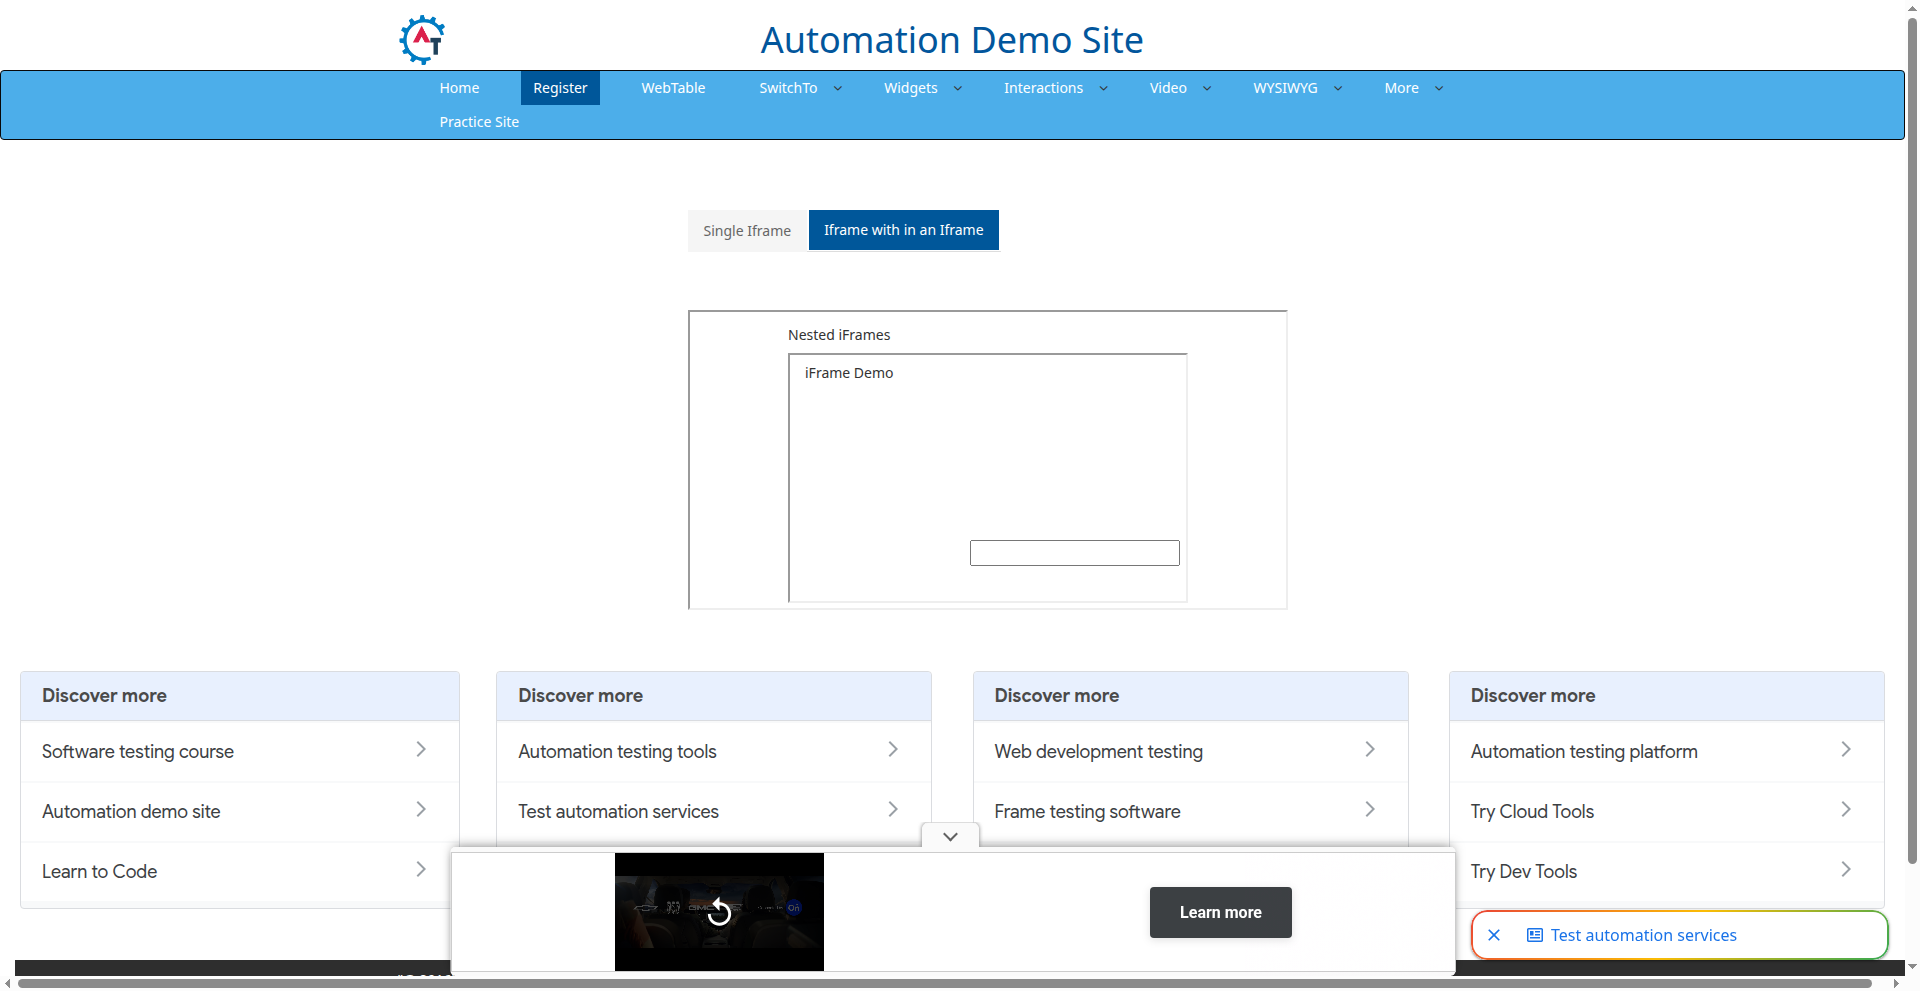
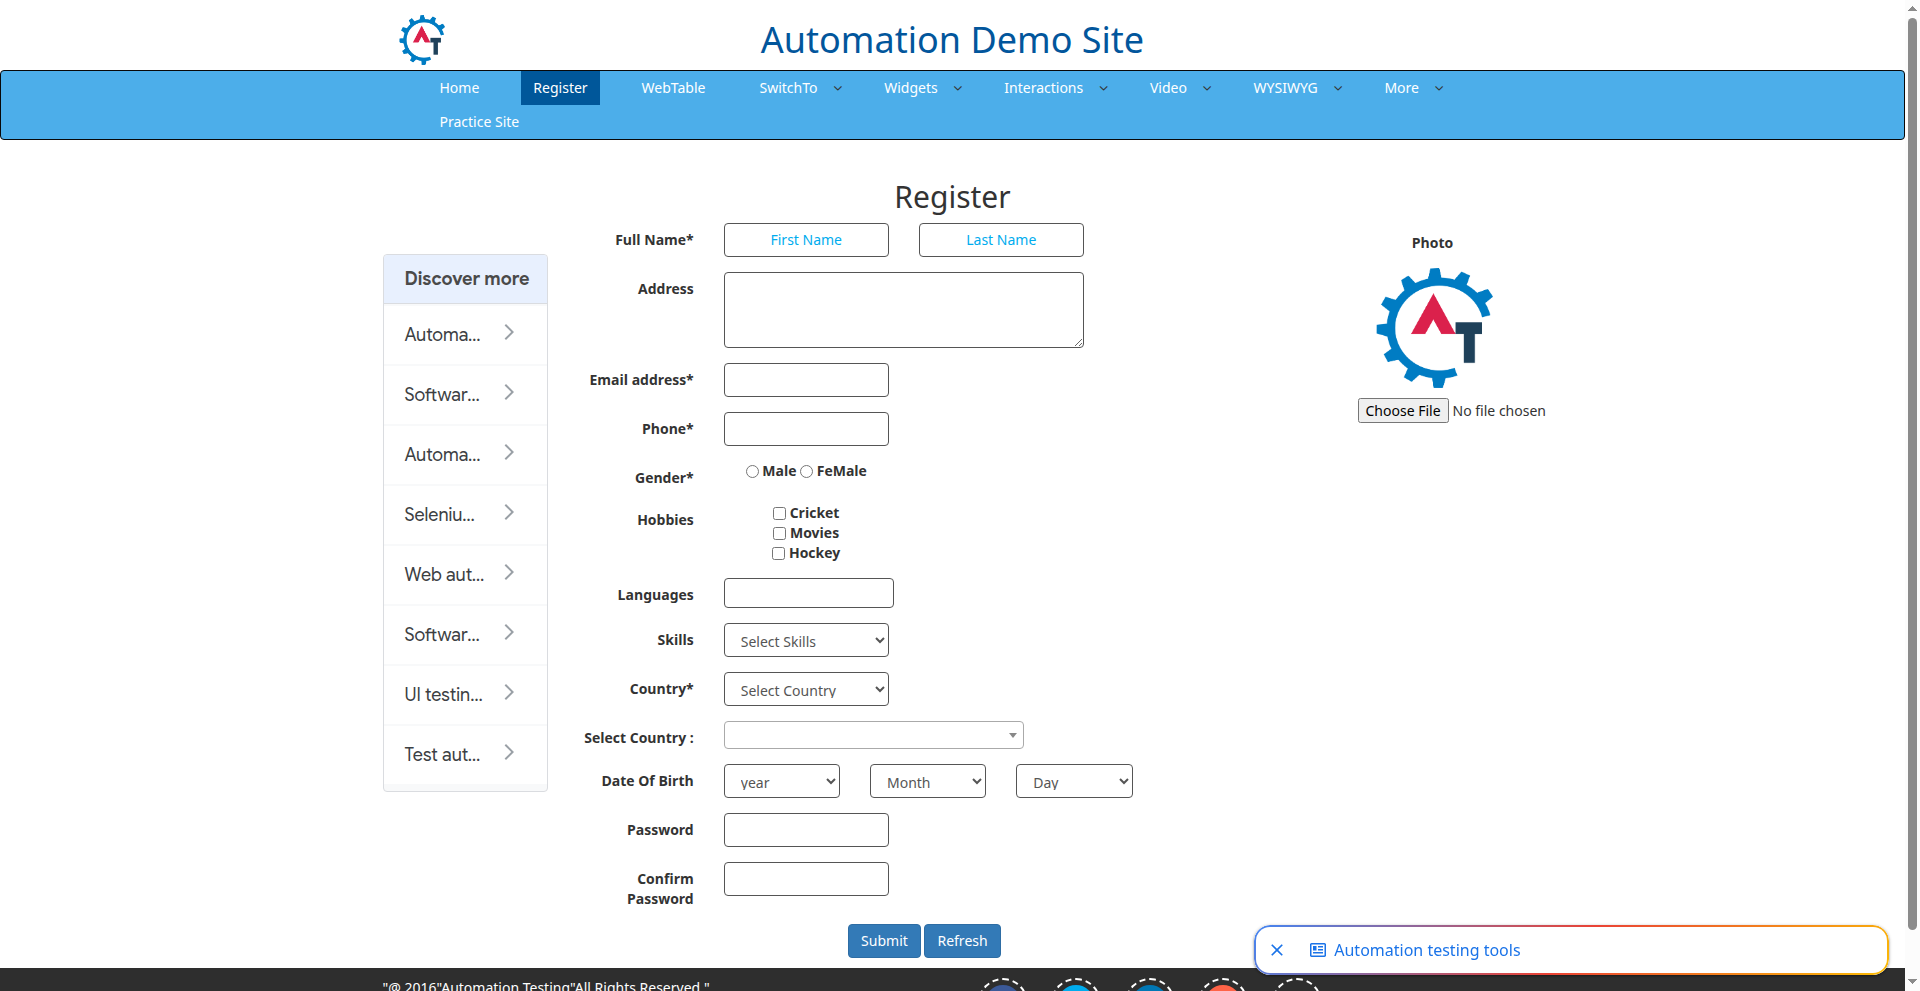
Get From API Added

diff --git a/compile-java-executable/32/testcases/GetFromAPI.java b/compile-java-executable/32/testcases/GetFromAPI.java
@@ -1,0 +1,39 @@
+import io.testgrid.listeners.TestListener;
+import io.testgrid.listeners.RetryFailedTestCases;
+import io.testgrid.tg;
+import org.testng.annotations.*;
+import app.getxray.xray.testng.annotations.XrayTest;
+import io.testgrid.enums.ComparisonType;
+import org.json.JSONObject;
+import io.testgrid.enums.Direction;
+import io.testgrid.enums.Size;
+import io.testgrid.enums.Buttons;
+import static io.testgrid.baseClass.driver;
+import org.openqa.selenium.*;
+import static io.testgrid.enums.KeyboardKeys.*;
+import org.openqa.selenium.support.ui.Select;
+import java.net.*;
+import java.util.*;
+import java.io.*;
+import java.util.concurrent.TimeUnit;
+import org.openqa.selenium.remote.RemoteWebDriver;
+import org.testng.annotations.Test;
+
+@Listeners(TestListener.class);
+public class getfromapi {
+
+	@Test(retryAnalyzer = RetryFailedTestCases.class)
+	public void getfromapi() {
+		tg.openBrowser();
+		tg_String var_FirstName = "";
+		tg_String var_LastName = "";
+		tg_String var_Email = "";
+		JSONObject var_Hair = tg.getJsonData("");
+				tg.readFromAPI("Api1_api.json", var_FirstName, var_LastName, var_Email, var_Hair);
+		tg.type("ele_firstnameInput", var_FirstName);
+		tg.type("ele_LastName", var_LastName);
+		tg.printLogs(var_Email);
+		tg.printLogs(var_Hair);
+		tg.close();
+	}
+}

diff --git a/compile-java-executable/32/testcases/autosave/autosave_iframe.java b/compile-java-executable/32/testcases/autosave/autosave_iframe.java
@@ -1,0 +1,38 @@
+import io.testgrid.listeners.TestListener;
+import io.testgrid.listeners.RetryFailedTestCases;
+import io.testgrid.tg;
+import org.testng.annotations.*;
+import app.getxray.xray.testng.annotations.XrayTest;
+import io.testgrid.enums.ComparisonType;
+import org.json.JSONObject;
+import io.testgrid.enums.Direction;
+import io.testgrid.enums.Size;
+import io.testgrid.enums.Buttons;
+import static io.testgrid.baseClass.driver;
+import org.openqa.selenium.*;
+import static io.testgrid.enums.KeyboardKeys.*;
+import org.openqa.selenium.support.ui.Select;
+import java.net.*;
+import java.util.*;
+import java.io.*;
+import java.util.concurrent.TimeUnit;
+import org.openqa.selenium.remote.RemoteWebDriver;
+import org.testng.annotations.Test;
+
+@Listeners(TestListener.class);
+public class iframe {
+
+	@Test(retryAnalyzer = RetryFailedTestCases.class)
+	public void iframe() {
+		tg.openBrowser();
+		tg.navigateToUrl(var_iFRameURL);
+		tg.wait(2);
+		tg.click("ele_textboxsha205", 1);
+		tg.type("ele_textboxsha205", "Testgrid");
+		tg.wait("ele_nestediframe", ComparisonType.IS_VISIBLE);
+		tg.click("ele_nestediframe", 1);
+		tg.wait("ele_Nestediframetextbox2", ComparisonType.IS_VISIBLE);
+		tg.type("ele_Nestediframetextbox2", "Testgrid");
+		tg.close();
+	}
+}

diff --git a/compile-java-executable/32/testcases/AI_Prompt.java b/compile-java-executable/32/testcases/AI_Prompt.java
@@ -1,0 +1,35 @@
+import io.testgrid.listeners.TestListener;
+import io.testgrid.listeners.RetryFailedTestCases;
+import io.testgrid.tg;
+import org.testng.annotations.*;
+import app.getxray.xray.testng.annotations.XrayTest;
+import io.testgrid.enums.ComparisonType;
+import org.json.JSONObject;
+import io.testgrid.enums.Direction;
+import io.testgrid.enums.Size;
+import io.testgrid.enums.Buttons;
+import static io.testgrid.baseClass.driver;
+import org.openqa.selenium.*;
+import static io.testgrid.enums.KeyboardKeys.*;
+import org.openqa.selenium.support.ui.Select;
+import java.net.*;
+import java.util.*;
+import java.io.*;
+import java.util.concurrent.TimeUnit;
+import org.openqa.selenium.remote.RemoteWebDriver;
+import org.testng.annotations.Test;
+
+@Listeners(TestListener.class);
+public class ai_prompt {
+
+	@Test(retryAnalyzer = RetryFailedTestCases.class)
+	public void ai_prompt() {
+		tg.openBrowser();
+		tg.aiPrompt("Type \"Test\" in the \"Firstname\" textfield.");
+		tg.aiPrompt("Type \"Grid\" in the \"LastName\" field.");
+		tg.aiPrompt("Tap on the \"Male Radio button\".");
+		tg.aiPrompt("Tap on the \"Cricket Checkbox\".");
+		tg.aiPrompt("Tap on the \"Submit Button\".");
+		tg.close();
+	}
+}
